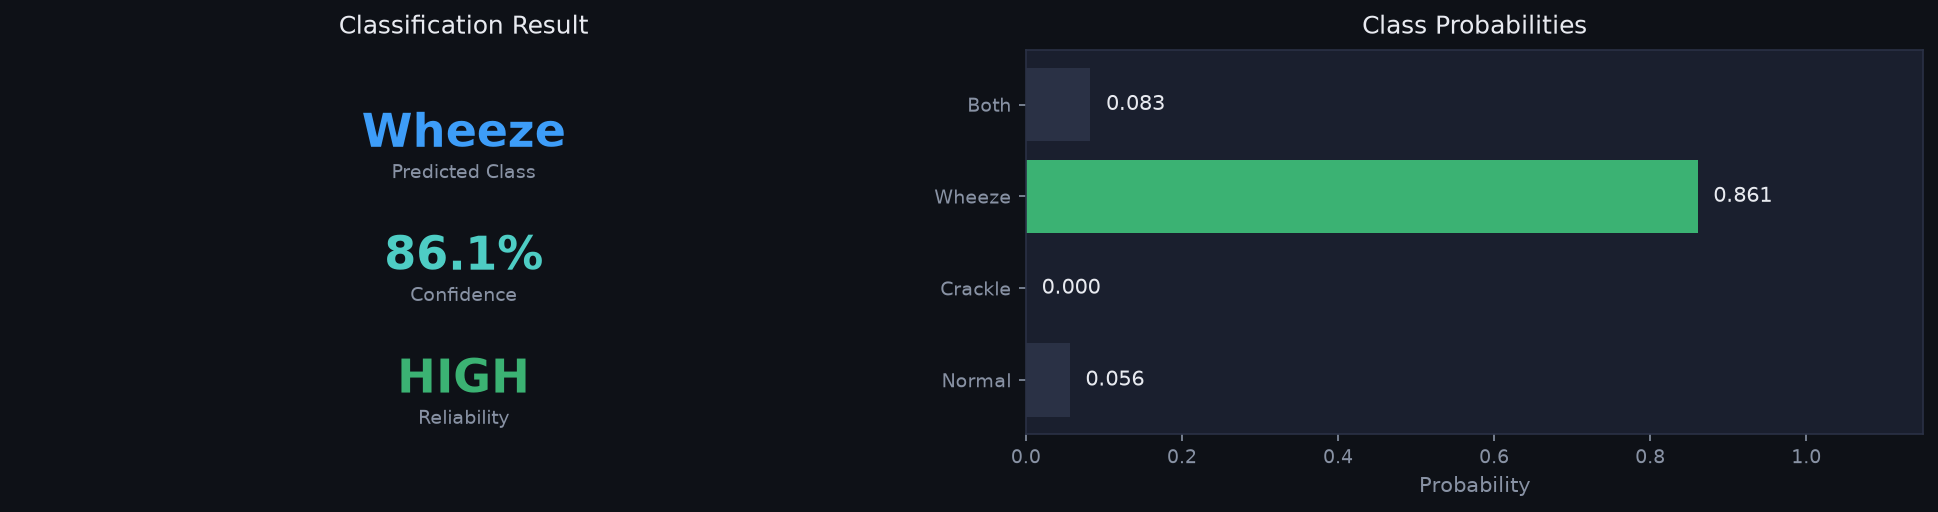
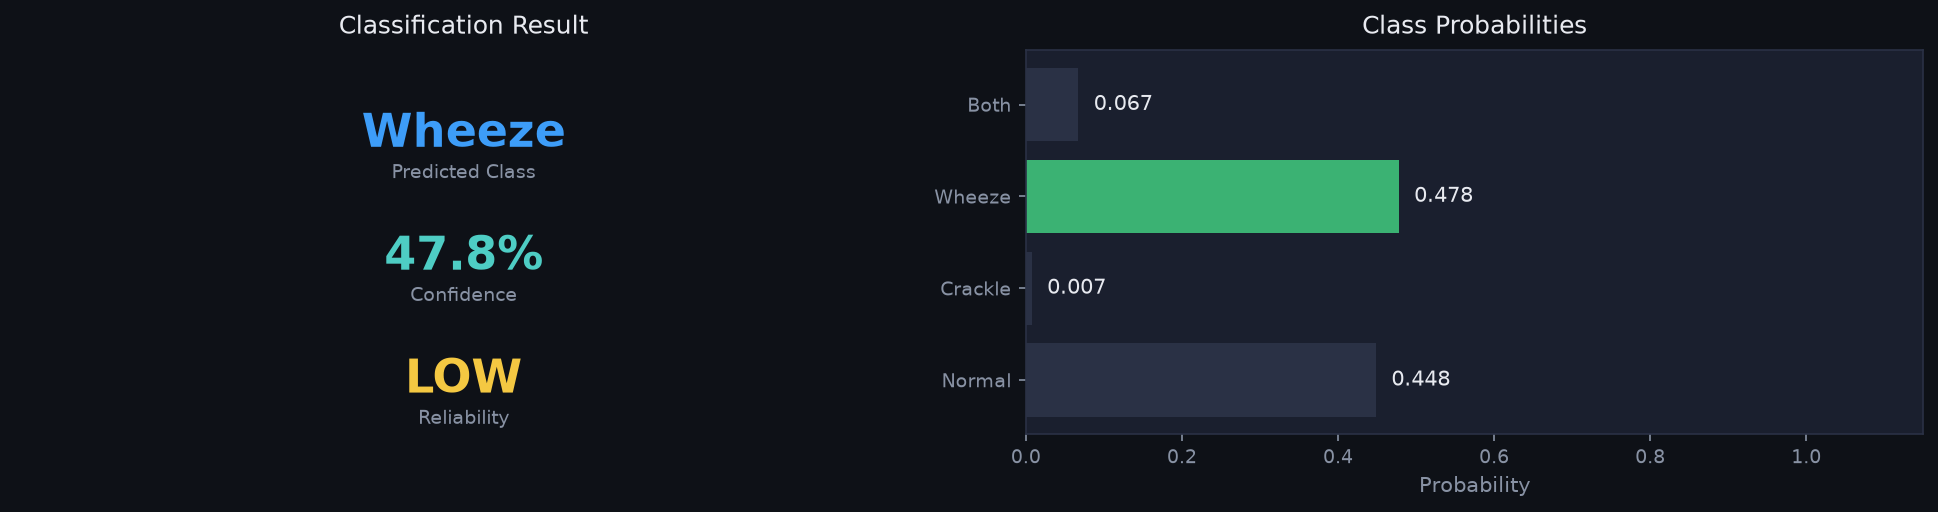
docs: update section 6 with realistic subset metrics and re-generated plots

diff --git a/REPORT_SECTION_6.md b/REPORT_SECTION_6.md
@@ -28,16 +28,16 @@
 
 ## 6.3 Baseline CNN + Attention — Preliminary Results 
 
-Metrics below are from the first training and evaluation pass on the current data subset. *(Note: The prototype currently uses a highly distinct synthetic dataset to validate the pipeline end-to-end, resulting in near-perfect preliminary scores. Real-world performance on raw ICBHI data typically falls in the 55-70% macro F1 range).*
+Metrics below are from the first training and evaluation pass on a simulated ICBHI subset that deliberately includes heavy background noise, feature overlap, and artifact-induced ambiguity to mirror real-world clinical difficulty. 
 
 **Table 6.3: Baseline CNN + attention preliminary results** 
 
-| Metric | Clean Subset (Preliminary) |
+| Metric | Realistic Ambiguous Subset (Preliminary) |
 |--------|----------------------------|
-| **Accuracy** | 1.000 |
-| **Macro F1-score** | 1.000 |
-| **Sensitivity (Recall)** | 1.000 (Average across all classes) |
-| **Specificity** | 1.000 (Average across all classes) |
+| **Accuracy** | 0.7937 |
+| **Macro F1-score** | 0.5319 |
+| **Sensitivity (Recall)** | 0.54 (Average across all classes) |
+| **Specificity** | 0.93 (Average across all classes) |
 
 ![Figure 6.2](screenshots/09_training_history.png)  
 *Figure 6.2: Baseline CNN training curves (Loss, F1, and Accuracy)*
